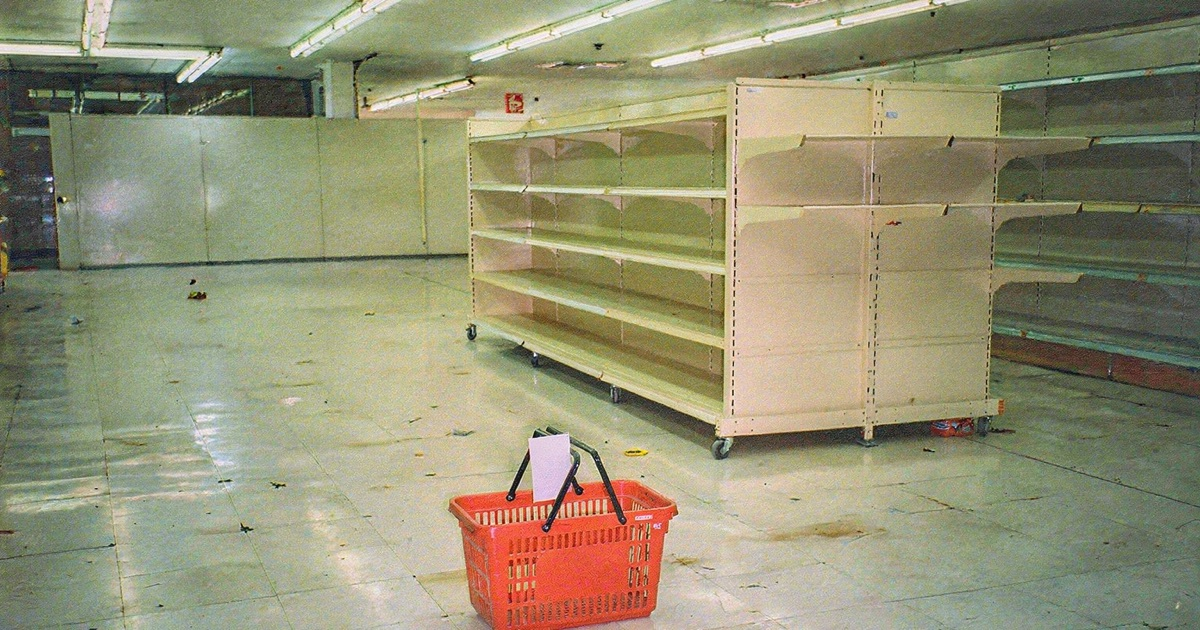
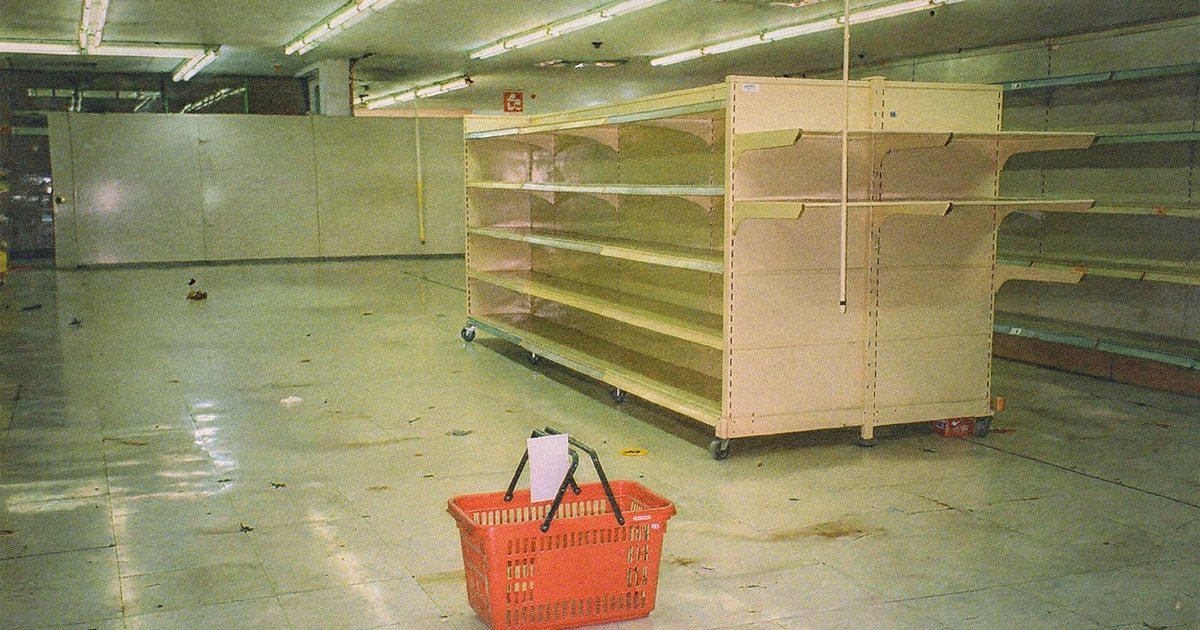
Update AI visibility images and enhance EssayImage component to conditionally render captions. Remove unused image files and adjust content layout for improved readability.

diff --git a/src/app/research/how-to-measure-ai-visibility/page.tsx b/src/app/research/how-to-measure-ai-visibility/page.tsx
@@ -83,7 +83,7 @@ export const metadata: Metadata = {
   },
 };
 
-function EssayImage({ src, alt, caption }: { src: string; alt: string; caption: string }) {
+function EssayImage({ src, alt, caption }: { src: string; alt: string; caption?: string }) {
   return (
     <figure>
       <div className="relative aspect-3/2 overflow-hidden border border-foreground/20 bg-foreground/5">
@@ -96,9 +96,11 @@ function EssayImage({ src, alt, caption }: { src: string; alt: string; caption: 
           quality={82}
         />
       </div>
-      <figcaption className="mt-4 max-w-2xl font-body text-sm italic leading-relaxed text-foreground/55">
-        {caption}
-      </figcaption>
+      {caption ? (
+        <figcaption className="mt-4 max-w-2xl font-body text-sm italic leading-relaxed text-foreground/55">
+          {caption}
+        </figcaption>
+      ) : null}
     </figure>
   );
 }
@@ -124,45 +126,72 @@ export default function MeasureAiVisibilityPage() {
                 <h1 className="mt-4 max-w-5xl font-display text-hero-name font-normal leading-[0.9] tracking-tight">
                   How I measure AI visibility
                 </h1>
-                <div className="mt-10 max-w-3xl space-y-5 font-body text-xl leading-relaxed text-foreground/80 md:text-2xl">
-                  <p>Imagine walking into a store with no aisles.</p>
-                  <p>
-                    You ask for the best corporate card for a fifty-three-person software company
-                    that uses NetSuite and has a sales team that keeps expensing sushi at midnight.
-                  </p>
-                  <p>
-                    Only then do the shelves roll across the floor. The store builds an aisle around
-                    your request, decides which brands belong, and places one at eye level and
-                    another near your shoes. When the next customer asks a different question, it
-                    takes the aisle apart and starts again.
-                  </p>
-                </div>
+                <p className="mt-10 max-w-3xl font-body text-xl leading-relaxed text-foreground/80 md:text-2xl">
+                  Imagine walking into a store with no aisles.
+                </p>
               </div>
             </div>
           </header>
 
-          <div className="mx-auto max-w-7xl px-6 pb-24 md:pb-28">
-            <EssayImage
-              src="/images/research/ai-visibility/sequence-empty.jpg"
-              alt="An empty store floor before the customer makes a request"
-              caption="Before the customer asks, most of the store has no reason to exist."
-            />
+          <div className="mx-auto max-w-7xl space-y-20 px-6 pb-24 md:pb-28">
+            <div className="grid gap-10 lg:grid-cols-[3fr_2fr] lg:items-center lg:gap-14">
+              <EssayImage
+                src="/images/research/ai-visibility/sequence-request.jpg"
+                alt="A red shopping basket sitting alone on an empty store floor"
+              />
+              <p className="font-body text-xl leading-[1.7] text-foreground/80">
+                You ask for the best corporate card for a fifty-three-person software company that
+                uses NetSuite and has a sales team that keeps expensing sushi at midnight.
+              </p>
+            </div>
+
+            <div className="grid gap-10 lg:grid-cols-[2fr_3fr] lg:items-center lg:gap-14">
+              <p className="font-display text-3xl font-normal italic leading-tight lg:order-1 md:text-4xl">
+                Only then do the shelves roll across the floor.
+              </p>
+              <div className="lg:order-2">
+                <EssayImage
+                  src="/images/research/ai-visibility/sequence-stocked-sibling.jpg"
+                  alt="Movable store shelving assembled around the red shopping basket"
+                />
+              </div>
+            </div>
+
+            <div className="grid gap-10 lg:grid-cols-[3fr_2fr] lg:items-center lg:gap-14">
+              <EssayImage
+                src="/images/research/ai-visibility/sequence-pantry-final.jpg"
+                alt="The movable aisle stocked with products around the red basket"
+              />
+              <p className="font-display text-3xl font-normal italic leading-tight md:text-4xl">
+                The store decides which brands belong.
+              </p>
+            </div>
+
+            <div className="grid gap-10 lg:grid-cols-[2fr_3fr] lg:items-center lg:gap-14">
+              <p className="font-body text-xl leading-[1.7] text-foreground/80 lg:order-1">
+                The next customer asks a different question, so the store stocks a different answer.
+              </p>
+              <div className="lg:order-2">
+                <EssayImage
+                  src="/images/research/ai-visibility/sequence-household-final.jpg"
+                  alt="The same aisle and basket with a completely different set of products"
+                />
+              </div>
+            </div>
           </div>
 
           <Section layout="narrow">
             <div className="mx-auto max-w-3xl space-y-10 font-body text-lg leading-[1.75] text-foreground/90 md:text-xl">
               <p>
                 In retail, the diagram that decides where every product belongs is called a
-                planogram. It specifies which brands sit at eye level, which ones get an endcap, and
-                how many facings each product receives. Consumer brands spend fortunes trying to
-                improve this arrangement because the shelf is stable enough to fight over. A
-                merchandiser can photograph the aisle on Monday, return on Friday, and measure what
-                moved.
+                planogram. It is a set of instructions for what the shelf needs to look like.
+                Notably, it exists for all shoppers at the same time. There is one shelf. There is
+                not my shelf and your shelf. There is the shelf.
               </p>
               <EssayImage
-                src="/images/research/ai-visibility/sequence-request.jpg"
-                alt="A red shopping basket sitting alone on the empty store floor"
-                caption="The customer supplies the request before the store has anything to sell."
+                src="/images/research/ai-visibility/planogram-merchandiser-b.jpg"
+                alt="A retail merchandiser comparing a red planogram clipboard with an empty store shelf"
+                caption="The shelf is decided before the customer arrives."
               />
               <p>
                 Search results behaved enough like a planogram to inherit the same measurement
@@ -178,22 +207,12 @@ export default function MeasureAiVisibilityPage() {
                 the engine has to decide what kind of store would answer that question before it can
                 decide what belongs inside it.
               </p>
-              <EssayImage
-                src="/images/research/ai-visibility/sequence-assembled.jpg"
-                alt="Movable store shelving assembled around the red shopping basket"
-                caption="The question decides which aisle needs to exist."
-              />
               <p>
                 It might build one shelf for accounting integrations, another for card controls, and
                 a third for the stories finance teams tell after implementation. It chooses which
                 brands belong, where to place them, which facts to print on the labels, and which
                 outside sources to trust while assembling the display.
               </p>
-              <EssayImage
-                src="/images/research/ai-visibility/sequence-stocked.jpg"
-                alt="The movable aisle stocked with products around the red basket"
-                caption="The answer is stocked from the sources the engine can find."
-              />
               <p>
                 AI visibility lives inside these temporary aisles. There is no single shelf position
                 that belongs to the brand, because the shelf is rebuilt for every question. What we
@@ -202,12 +221,17 @@ export default function MeasureAiVisibilityPage() {
                 process look objective, but its most important decision happened before the first
                 answer was generated: somebody chose the questions.
               </p>
+              <EssayImage
+                src="/images/research/ai-visibility/aisles-at-scale-clean-a.jpg"
+                alt="A merchandiser with a red clipboard inspecting many parallel grocery-store aisles"
+                caption="One person chooses which aisles to inspect."
+              />
             </div>
           </Section>
 
           <Section layout="split">
             <p className="max-w-md font-display text-3xl font-normal italic leading-tight md:text-4xl">
-              Polling the wrong electorate more carefully does not improve the forecast.
+              A survey of the wrong people gives the wrong answer.
             </p>
             <div className="max-w-2xl space-y-10 font-body text-lg leading-[1.75] text-foreground/90">
               <p>
@@ -255,6 +279,11 @@ export default function MeasureAiVisibilityPage() {
                 whether competitors appeared more often, or whether the entire category became
                 easier for every brand to enter.
               </p>
+              <EssayImage
+                src="/images/research/ai-visibility/visibility-rank-b.jpg"
+                alt="A red product with one facing among competitors occupying most of a supermarket shelf"
+                caption="The red product is visible. Its competitors have more of the shelf."
+              />
               <p>
                 Imagine two months in which a brand&apos;s score rises from twenty percent to thirty
                 percent. It seems to have gained ground. Now imagine that its three closest
@@ -285,12 +314,12 @@ export default function MeasureAiVisibilityPage() {
           <Section layout="split">
             <div className="space-y-8">
               <p className="max-w-md font-display text-3xl font-normal italic leading-tight md:text-4xl">
-                Being stocked everywhere does not mean being chosen anywhere.
+                A product can be stocked everywhere and still sit on the bottom shelf.
               </p>
               <EssayImage
-                src="/images/research/ai-visibility/position.jpg"
+                src="/images/research/ai-visibility/position-bottom-final.jpg"
                 alt="A mostly empty store shelf with one red box among muted products"
-                caption="Stocked everywhere. Placed within easy reach nowhere."
+                caption="The product is there. Its position is a separate question."
               />
             </div>
             <div className="max-w-2xl space-y-10 font-body text-lg leading-[1.75] text-foreground/90">
@@ -322,7 +351,7 @@ export default function MeasureAiVisibilityPage() {
               <EssayImage
                 src="/images/research/ai-visibility/supply-chain.jpg"
                 alt="A red stocking cart carrying boxes from a retail stockroom toward the sales floor"
-                caption="The answer on the shelf begins with the sources in the stockroom."
+                caption="The cart brings products from the stockroom to the shelf."
               />
               <p>
                 The store also has to decide where its product information comes from. It may use
@@ -361,7 +390,7 @@ export default function MeasureAiVisibilityPage() {
 
           <Section layout="split">
             <p className="max-w-md font-display text-3xl font-normal italic leading-tight md:text-4xl">
-              A product can be on every shelf and still carry the wrong label.
+              The label can still be wrong.
             </p>
             <div className="max-w-2xl space-y-10 font-body text-lg leading-[1.75] text-foreground/90">
               <p>
@@ -395,7 +424,7 @@ export default function MeasureAiVisibilityPage() {
               <EssayImage
                 src="/images/research/ai-visibility/engine-vending.jpg"
                 alt="Three vending machines stocking the same red product differently"
-                caption="The same product enters three stores and finds three different shelves."
+                caption="Each store puts the same product in a different place."
               />
               <p>
                 Our imaginary store becomes stranger still when we remember that there is more than
@@ -421,7 +450,7 @@ export default function MeasureAiVisibilityPage() {
 
           <Section layout="split">
             <p className="max-w-md font-display text-3xl font-normal italic leading-tight md:text-4xl">
-              Asking the same ten customers a hundred times does not give you a thousand customers.
+              Asking ten people the same question 100 times is still a survey of ten people.
             </p>
             <div className="max-w-2xl space-y-10 font-body text-lg leading-[1.75] text-foreground/90">
               <p>
@@ -471,7 +500,7 @@ export default function MeasureAiVisibilityPage() {
               <EssayImage
                 src="/images/research/ai-visibility/checkout.jpg"
                 alt="A red product at an empty supermarket checkout"
-                caption="The register records the sale. It cannot see the conversation that caused it."
+                caption="The register knows what was bought, not how the customer found it."
               />
               <p>
                 One last hypothetical reveals what the dashboard cannot measure. A buyer spends
